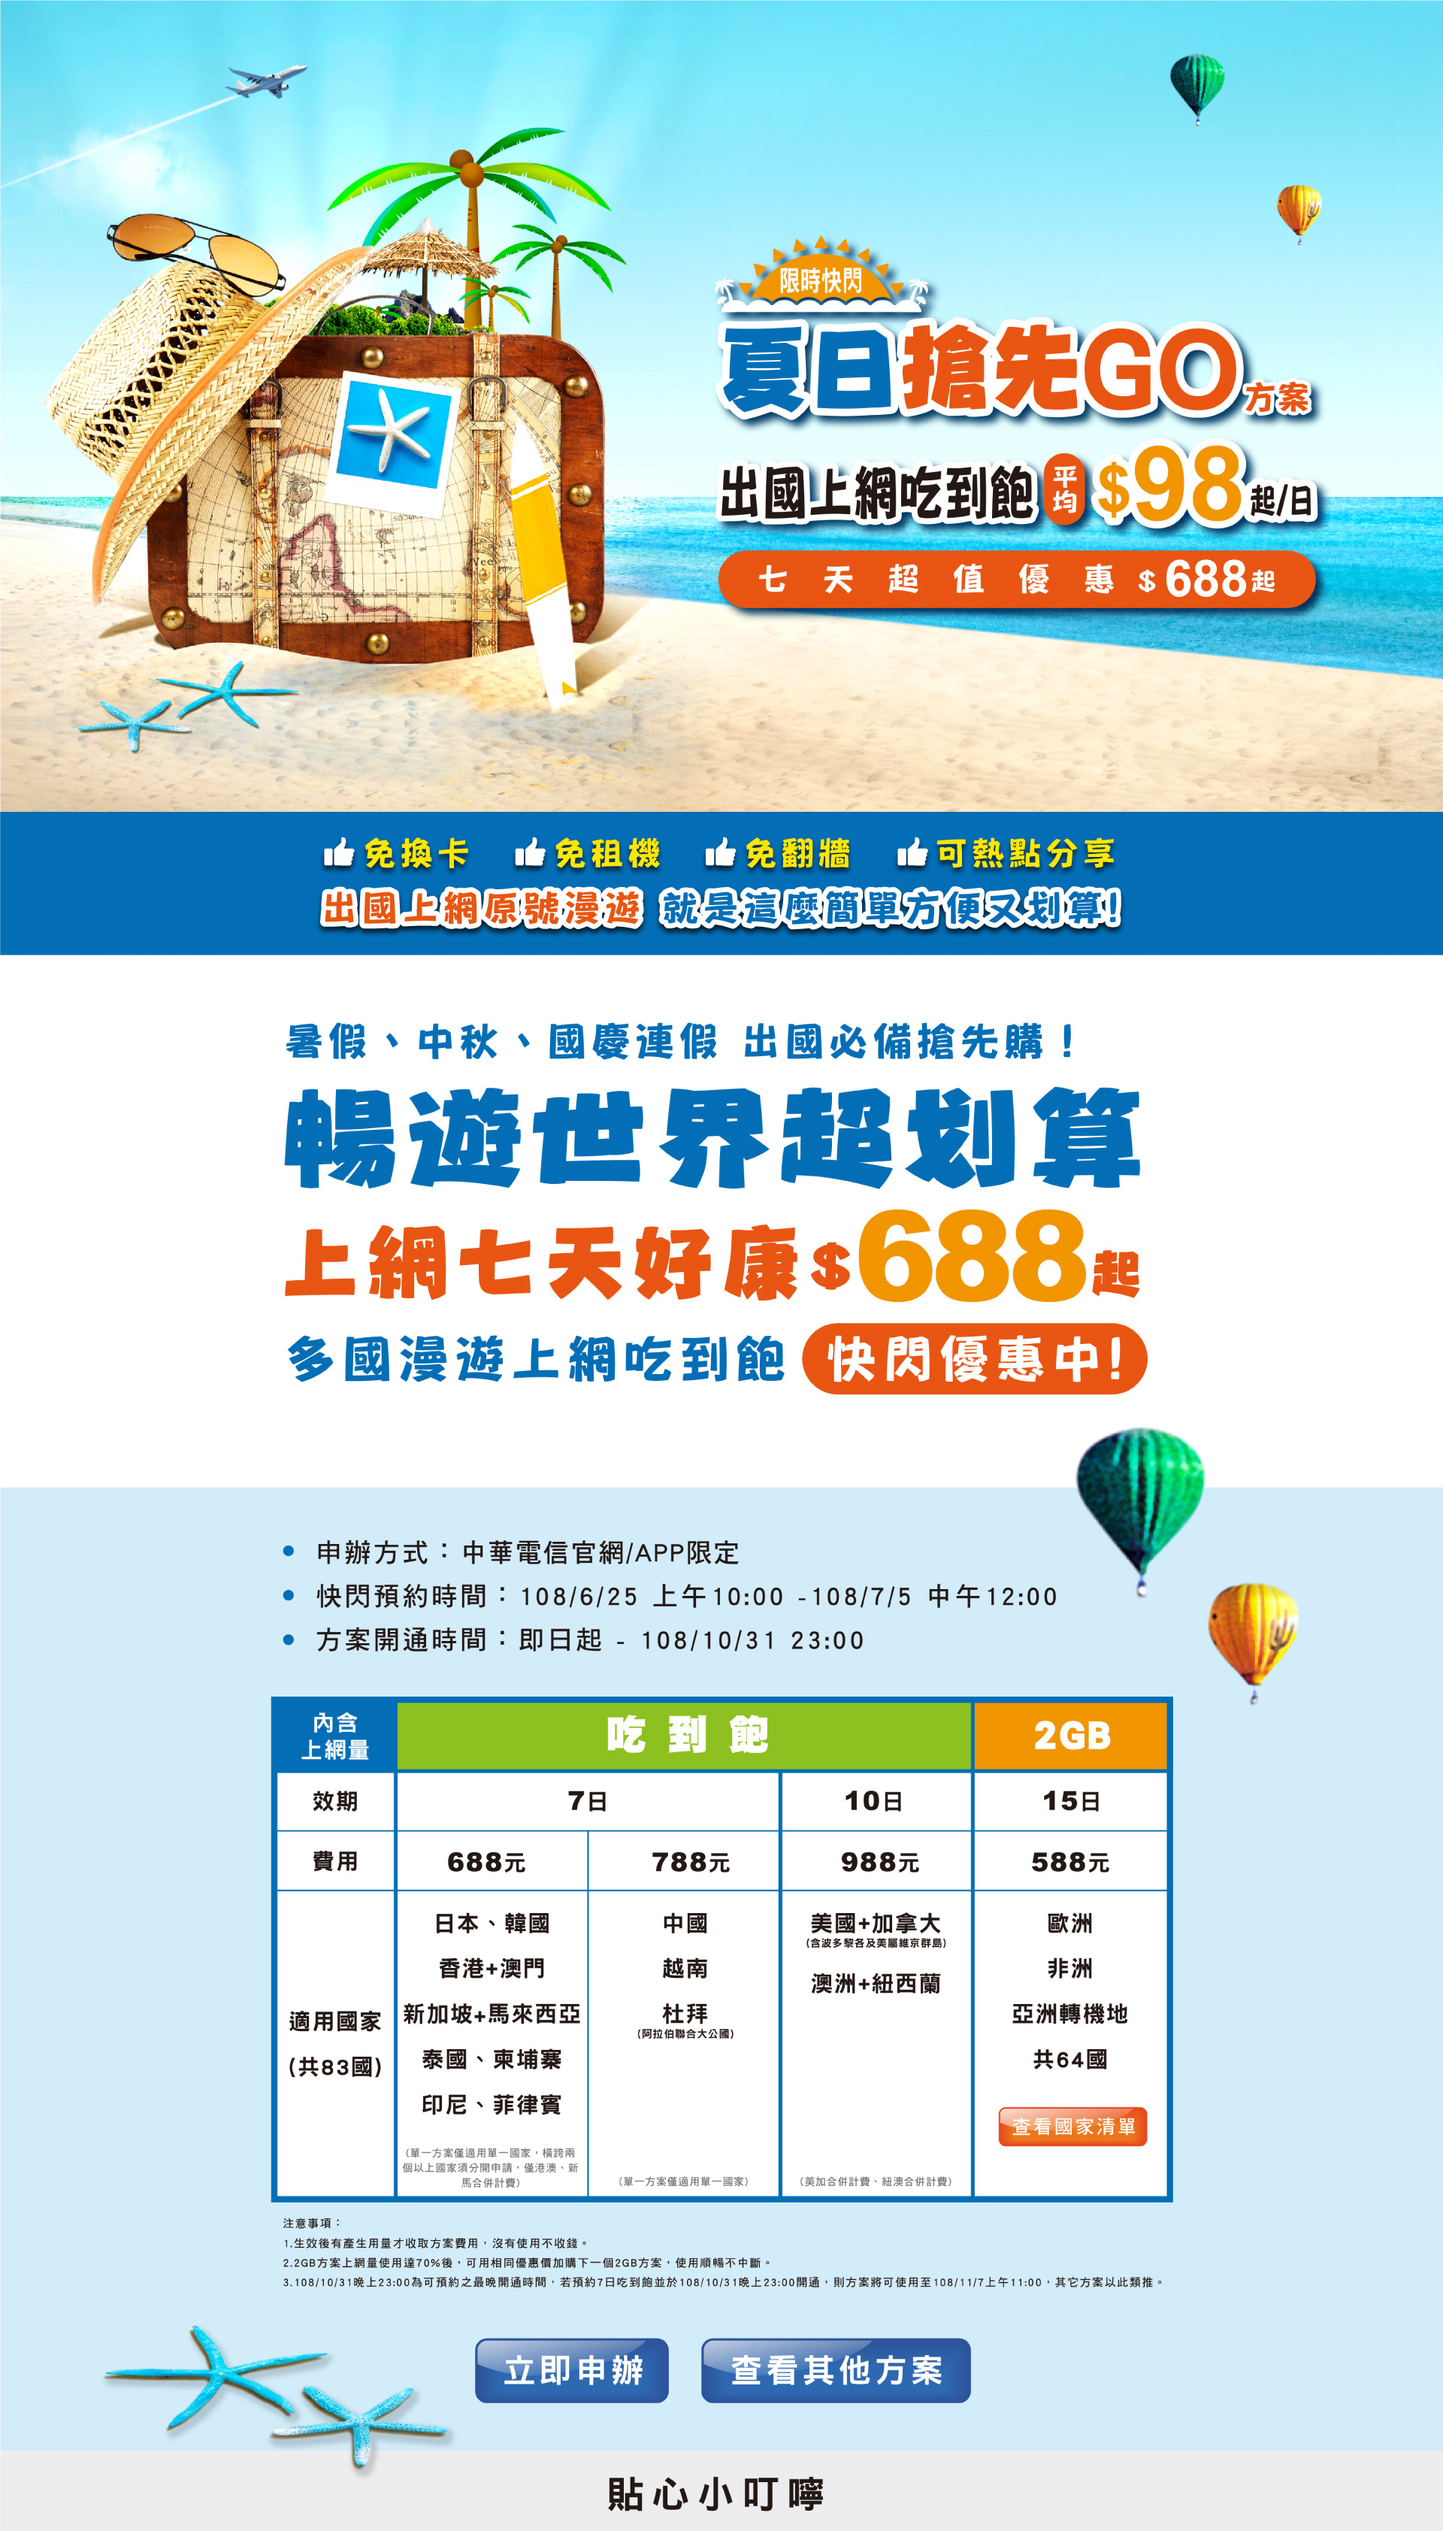
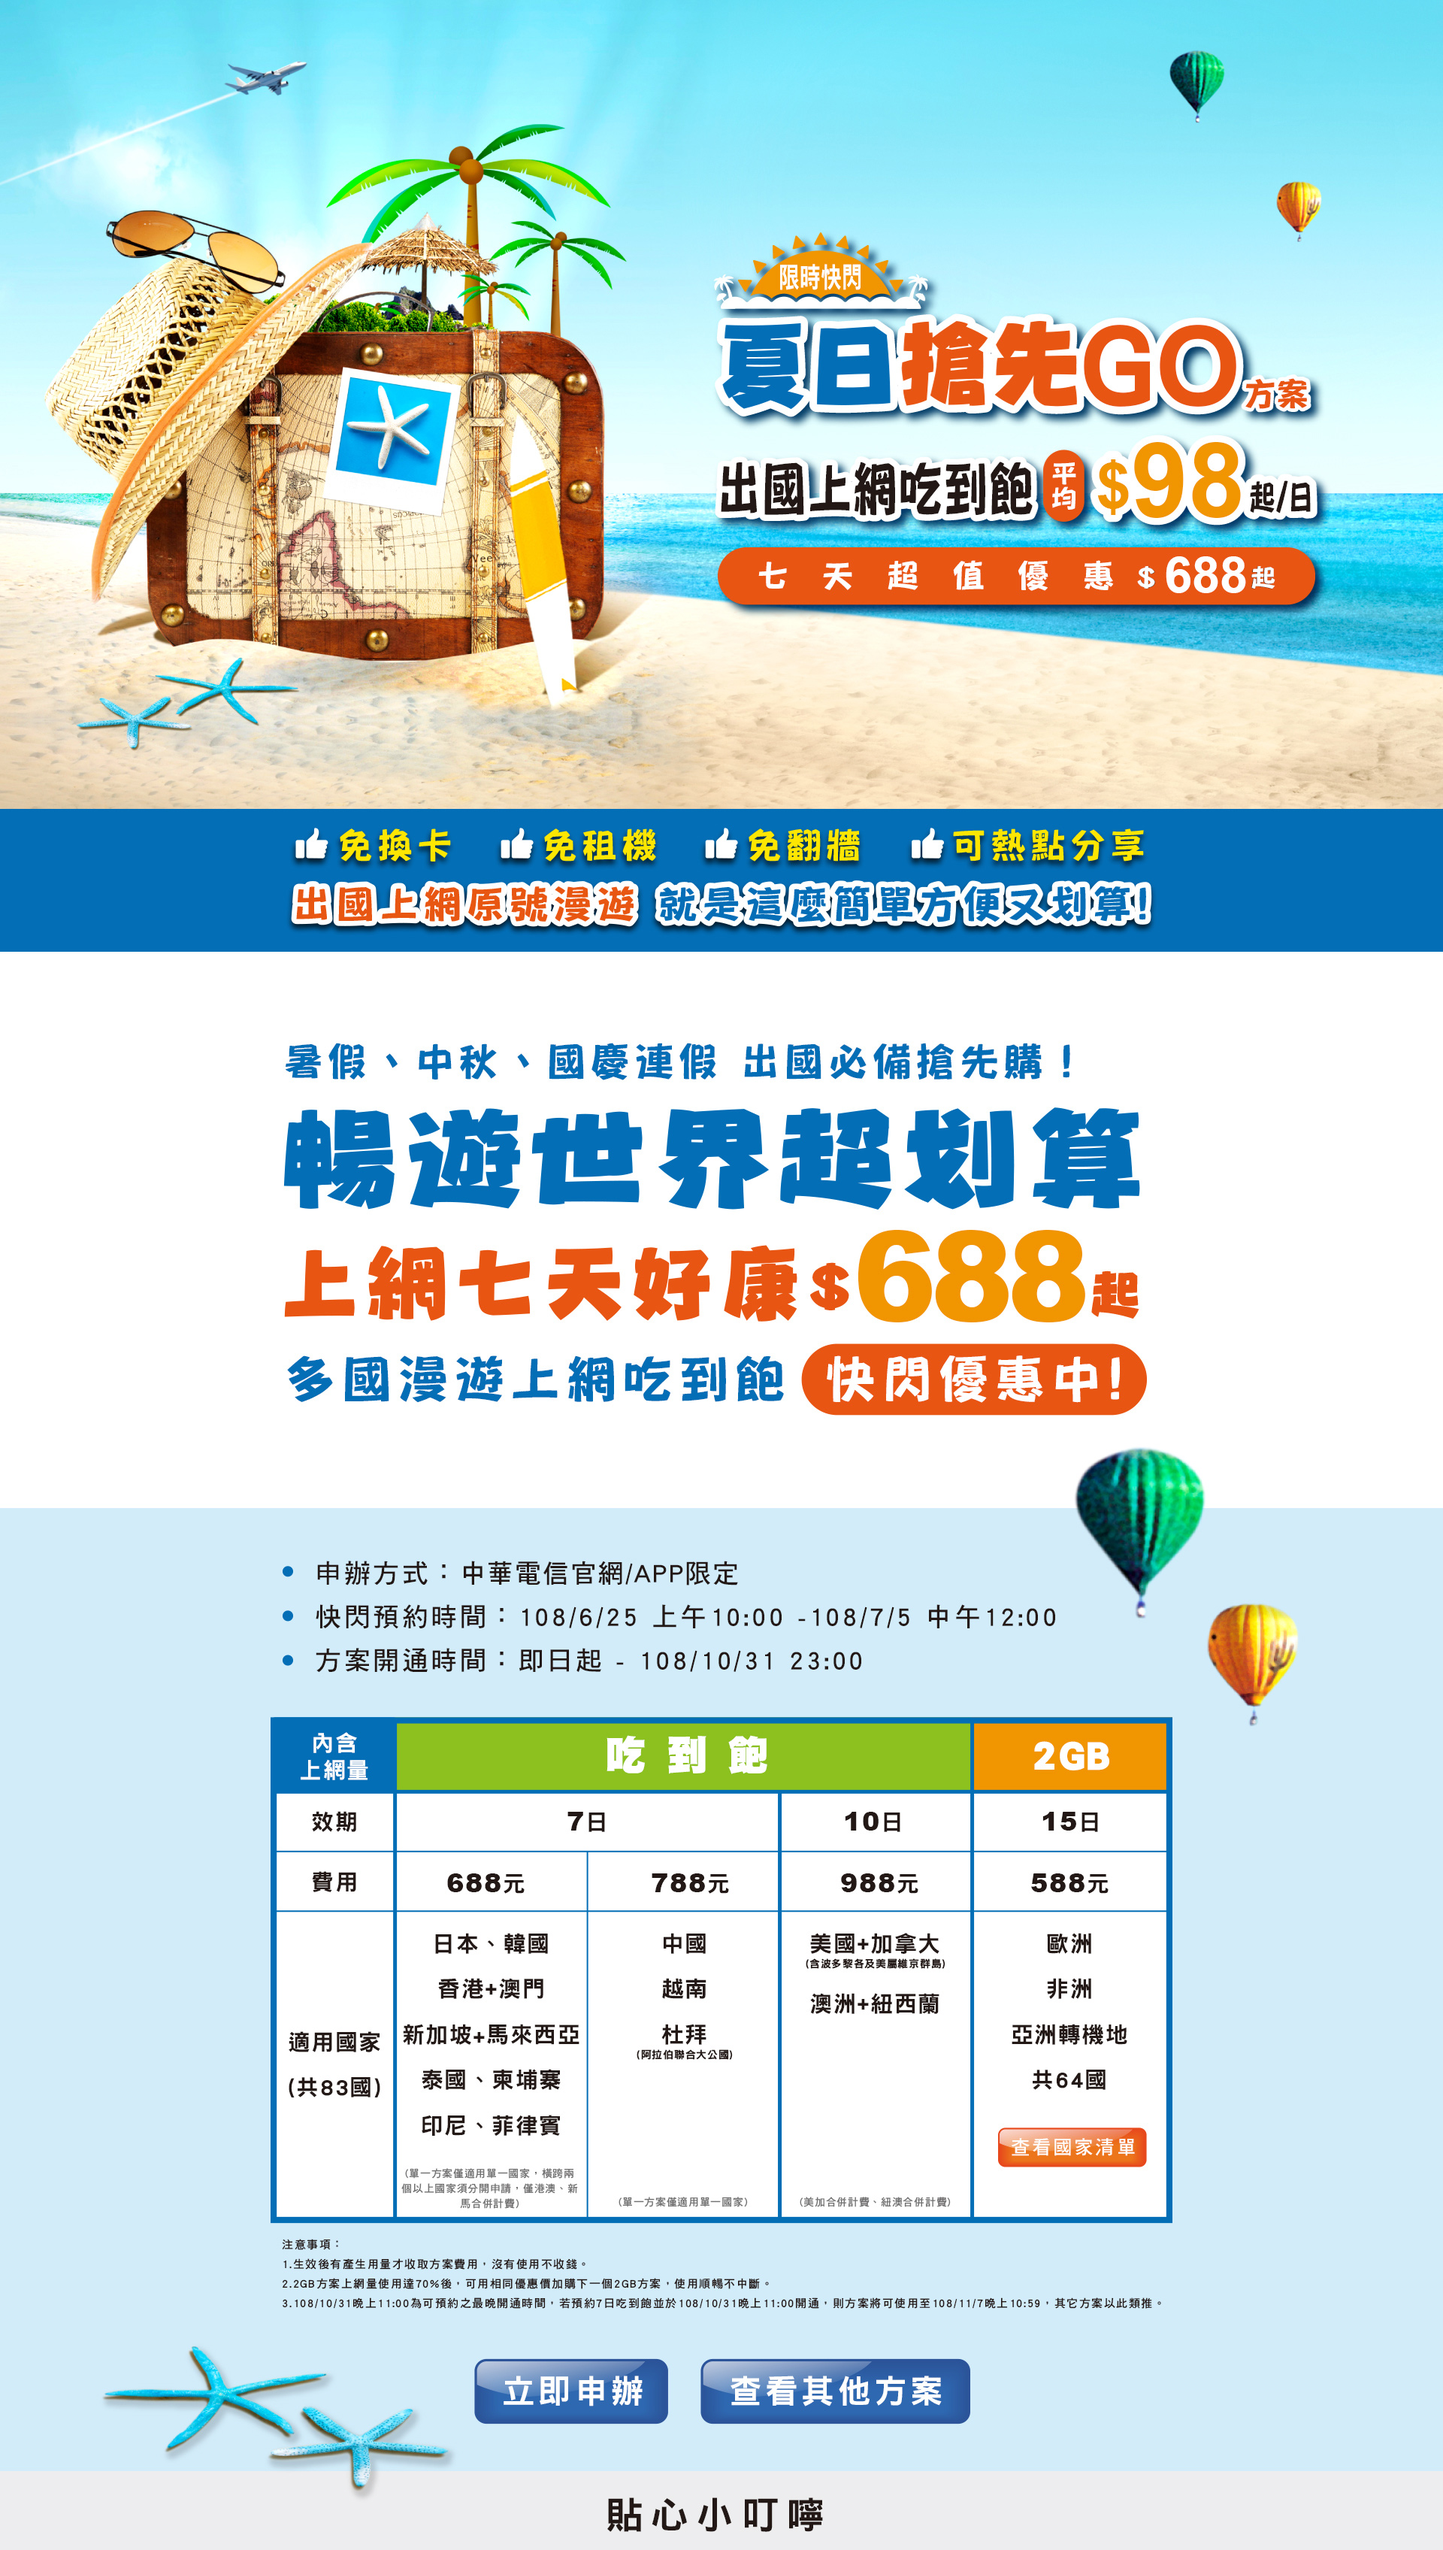
國際漫遊
更新視覺與按鈕位置

Changed region(s): [[0.0, 0.0, 1.0, 0.9979], [0.875, 0.0624, 0.9375, 0.0936], [0.8125, 0.0, 0.8438, 0.0624]]

diff --git a/demo/international/roamingholidaygo/index.html b/demo/international/roamingholidaygo/index.html
@@ -174,9 +174,9 @@ j=d.createElement(s),dl=l!='dataLayer'?'&l='+l:'';j.async=true;j.src=
 		<div class="KV">
 			<img src="images/KV.jpg" usemap="#image-map">
 			<map name="image-map">
-				<area href="https://eshop.cht.com.tw/RoamingWeb/Personal/Roaming/FlashSale" coords="640,3111,891,3204" onclick="gtag('event', 'flash-sale', {'event_category': 'home', 'event_label': 'home'})"; shape="rect">
-			    <area href="https://www.cht.com.tw/home/Campaign/roaming/index.html" coords="934,3109,1290,3204" onclick="gtag('event', 'flash-home', {'event_category': 'home', 'event_label': 'home'})"; shape="rect">
-			    <area data-featherlight="#fl1" href="#" coords="1329,2806,1527,2856" onclick="gtag('event', 'country', {'event_category': 'home', 'event_label': 'home'})"; shape="rect">
+				<area href="https://eshop.cht.com.tw/RoamingWeb/Personal/Roaming/FlashSale" coords="633,3134,893,3226" onclick="gtag('event', 'flash-sale', {'event_category': 'home', 'event_label': 'home'})"; shape="rect">
+			    <area href="https://www.cht.com.tw/home/Campaign/roaming/index.html" coords="932,3136,1293,3229" onclick="gtag('event', 'flash-home', {'event_category': 'home', 'event_label': 'home'})"; shape="rect">
+			    <area data-featherlight="#fl1" href="#" coords="1329,2831,1524,2876" onclick="gtag('event', 'country', {'event_category': 'home', 'event_label': 'home'})"; shape="rect">
 			</map>
 		</map>
 		</div>
